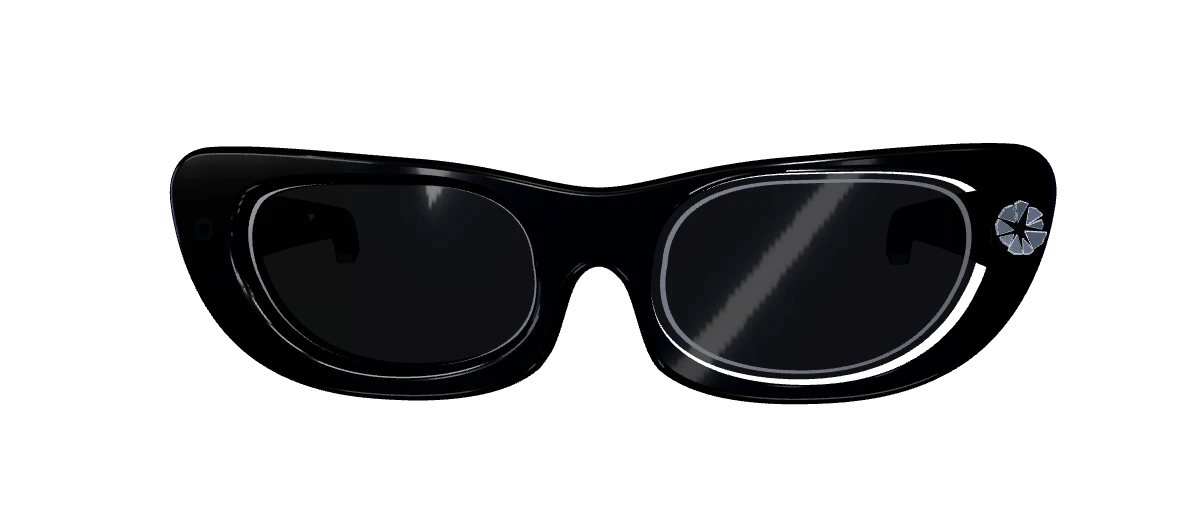
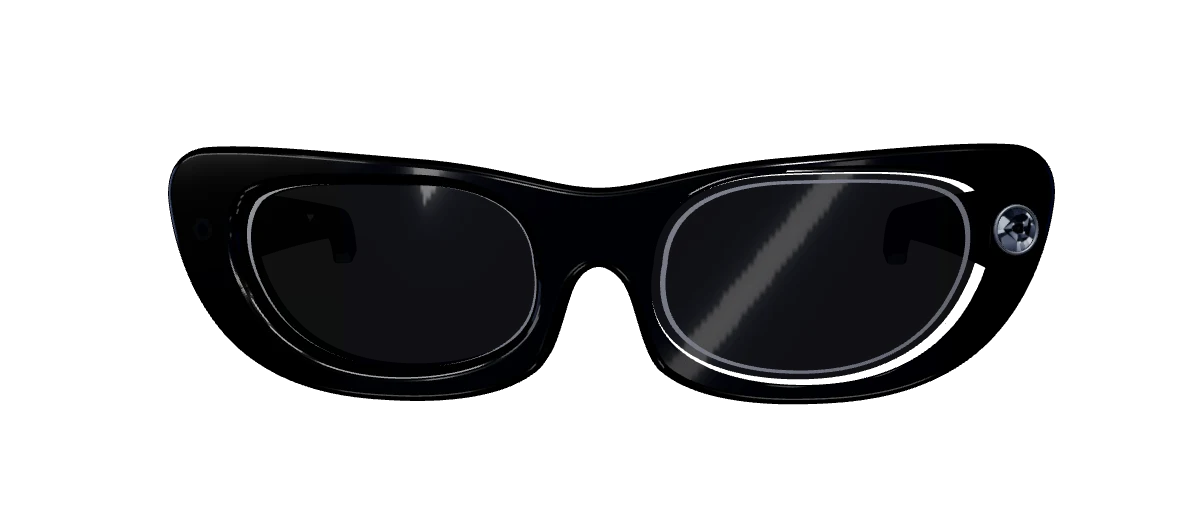
Damaged light: painted smashed-glass cover; add Business Insider source
The damaged-light text now says the camera is permanently disabled, per
Business Insider (Sept. 2, 2026).

diff --git a/src/three/Glasses3D.jsx b/src/three/Glasses3D.jsx
@@ -161,35 +161,129 @@ function OnFront({ x, y, lift = 0.004, children, groupRef }) {
   )
 }
 
-// Smashed capture-light cover: wedge-shaped glass shards around a hole,
-// each pushed in and twisted so they catch the light at different angles
-function makeShards() {
-  let seed = 7
+// Smashed capture-light cover, painted as a detailed texture: a punched-in
+// hole, broken glass cells with their own reflections, cut-glass edges,
+// hairline fractures and a few glints. Mapped onto a glossy disc.
+function makeSmashTexture() {
+  const S = 512, C = S / 2, R = S * 0.48
+  const IX = C + 26, IY = C - 20 // impact point, off-center
+  let seed = 11
   const rnd = () => ((seed = (seed * 16807) % 2147483647) / 2147483647)
-  const n = 9
-  const out = []
-  let a = 0
-  for (let i = 0; i < n; i++) {
-    const span = ((Math.PI * 2) / n) * (0.7 + rnd() * 0.6)
-    const rIn = 0.008 + rnd() * 0.012
-    const rOut = 0.044 + rnd() * 0.012
-    const half = span / 2 - (0.02 + rnd() * 0.07) // uneven gaps between shards
-    const shape = new THREE.Shape()
-    shape.moveTo(rIn, (rnd() - 0.5) * 0.006)
-    shape.lineTo(Math.cos(-half) * rOut, Math.sin(-half) * rOut)
-    shape.lineTo(rOut * (1.02 + rnd() * 0.06), (rnd() - 0.5) * 0.01)
-    shape.lineTo(Math.cos(half) * rOut, Math.sin(half) * rOut)
-    shape.closePath()
-    const geo = new THREE.ExtrudeGeometry(shape, { depth: 0.003, bevelEnabled: false })
-    out.push({ geo, edges: new THREE.EdgesGeometry(geo), ang: a + span / 2, rOut, tilt: -(0.12 + rnd() * 0.3), twist: (rnd() - 0.5) * 1.4 })
-    a += span
+  const cv = document.createElement('canvas')
+  cv.width = cv.height = S
+  const g = cv.getContext('2d')
+  const P = (a, r) => [IX + Math.cos(a) * r, IY + Math.sin(a) * r]
+
+  // rays from the impact point, and the fracture rings they cross
+  const n = 10
+  const rays = []
+  for (let i = 0; i < n; i++) rays.push((i / n) * Math.PI * 2 + (rnd() - 0.5) * 0.5)
+  const hole = rays.map(() => R * (0.24 + rnd() * 0.16))
+  const mid = rays.map(() => R * (0.52 + rnd() * 0.3))
+  const jag = (p, q, amt) => {
+    const m = [(p[0] + q[0]) / 2 + (rnd() - 0.5) * amt, (p[1] + q[1]) / 2 + (rnd() - 0.5) * amt]
+    return [p, m, q]
   }
-  return out
+
+  // base: dark tinted glass
+  g.beginPath(); g.arc(C, C, R, 0, Math.PI * 2)
+  g.fillStyle = '#0b1018'; g.fill()
+
+  const cells = []
+  for (let i = 0; i < n; i++) {
+    const j = (i + 1) % n
+    const a0 = rays[i], a1 = rays[j] + (j === 0 ? Math.PI * 2 : 0)
+    // inner ring cell (some are knocked out entirely)
+    if (rnd() > 0.4) {
+      cells.push({ pts: [...jag(P(a0, hole[i]), P(a0, mid[i]), 14), ...jag(P(a1, mid[j]), P(a1, hole[j]), 14).slice(1)], depth: 1 })
+    }
+    // outer cell, sometimes split by an extra short crack
+    const am = (a0 + a1) / 2
+    if (rnd() > 0.5) {
+      const rm = (mid[i] + mid[j]) / 2
+      cells.push({ pts: [P(a0, mid[i]), P(a0, R * 1.3), P(am, R * 1.3), P(am, rm)], depth: 0 })
+      cells.push({ pts: [P(am, rm), P(am, R * 1.3), P(a1, R * 1.3), P(a1, mid[j])], depth: 0 })
+    } else {
+      cells.push({ pts: [...jag(P(a0, mid[i]), P(a0, R * 1.3), 10), P(am, R * 1.3), ...jag(P(a1, R * 1.3), P(a1, mid[j]), 10).slice(1)], depth: 0 })
+    }
+  }
+
+  const poly = (pts) => { g.beginPath(); g.moveTo(...pts[0]); for (const p of pts.slice(1)) g.lineTo(...p); g.closePath() }
+
+  for (const c of cells) {
+    // each piece sits at its own angle, so it reflects a different brightness
+    const lit = rnd() ** 1.6 * (c.depth ? 0.7 : 1)
+    const ang = rnd() * Math.PI * 2
+    const [x0, y0] = c.pts[0]
+    const gr = g.createLinearGradient(x0, y0, x0 + Math.cos(ang) * 160, y0 + Math.sin(ang) * 160)
+    const hi = Math.round(40 + lit * 190), lo = Math.round(14 + lit * 60)
+    gr.addColorStop(0, `rgba(${hi - 12},${hi - 4},${hi + 14},0.95)`)
+    gr.addColorStop(1, `rgba(${lo},${lo + 6},${lo + 18},0.95)`)
+    poly(c.pts); g.fillStyle = gr; g.fill()
+    // cut-glass edge: dark seam, then a thin bright bevel just inside it
+    g.lineJoin = 'round'
+    poly(c.pts); g.strokeStyle = 'rgba(0,0,0,0.85)'; g.lineWidth = 5; g.stroke()
+    g.save(); g.translate(-1.2, -1.2)
+    poly(c.pts); g.strokeStyle = `rgba(225,236,255,${0.35 + lit * 0.6})`; g.lineWidth = 1.6; g.stroke()
+    g.restore()
+  }
+
+  // the punched-in hole, with a jagged lip
+  const holePts = []
+  rays.forEach((a, i) => { holePts.push(P(a, hole[i])); holePts.push(P(a + 0.24, hole[i] * (0.75 + rnd() * 0.2))) })
+  poly(holePts); g.fillStyle = '#000'; g.fill()
+  g.save(); g.translate(1.5, 1.5); poly(holePts); g.strokeStyle = 'rgba(200,215,240,0.55)'; g.lineWidth = 2; g.stroke(); g.restore()
+  // broken LED chip down inside the hole
+  g.save(); g.translate(IX + 4, IY + 6); g.rotate(0.5)
+  g.fillStyle = '#20232a'; g.fillRect(-14, -14, 28, 28)
+  g.fillStyle = '#3a3e47'; g.fillRect(-14, -14, 28, 4)
+  g.restore()
+
+  // hairline fractures running through the pieces
+  g.lineCap = 'round'
+  for (let k = 0; k < 26; k++) {
+    let a = rnd() * Math.PI * 2, r = R * (0.3 + rnd() * 0.6)
+    let [x, y] = P(a, r)
+    g.beginPath(); g.moveTo(x, y)
+    for (let s = 0; s < 3; s++) { a += (rnd() - 0.5) * 0.6; r += 10 + rnd() * 22; [x, y] = P(a, Math.min(r, R * 1.3)); g.lineTo(x, y) }
+    g.strokeStyle = `rgba(220,232,255,${0.15 + rnd() * 0.3})`; g.lineWidth = 0.8; g.stroke()
+  }
+
+  // a few sharp glints where light catches a broken edge
+  for (let k = 0; k < 6; k++) {
+    const c = cells[Math.floor(rnd() * cells.length)].pts[0]
+    const gl = g.createRadialGradient(c[0], c[1], 0, c[0], c[1], 16)
+    gl.addColorStop(0, 'rgba(255,255,255,0.95)'); gl.addColorStop(1, 'rgba(255,255,255,0)')
+    g.fillStyle = gl; g.fillRect(c[0] - 16, c[1] - 16, 32, 32)
+  }
+
+  // keep everything inside the round cover
+  g.globalCompositeOperation = 'destination-in'
+  g.fillStyle = '#000'
+  g.beginPath(); g.arc(C, C, R, 0, Math.PI * 2); g.fill()
+
+  const tex = new THREE.CanvasTexture(cv)
+  tex.colorSpace = THREE.SRGBColorSpace
+  tex.anisotropy = 4
+  return tex
 }
-const shards = makeShards()
-const shardMat = (
-  <meshPhysicalMaterial color="#a9bbd6" metalness={0.35} roughness={0.02} clearcoat={1} clearcoatRoughness={0} transparent opacity={0.62} envMapIntensity={5} side={THREE.DoubleSide} />
-)
+
+function SmashedCover() {
+  const tex = useMemo(makeSmashTexture, [])
+  return (
+    <group position={[0, 0, 0.009]}>
+      {/* metal bezel the glass sat in */}
+      <mesh>
+        <torusGeometry args={[0.078, 0.007, 12, 48]} />
+        <meshStandardMaterial color="#9da3ad" metalness={1} roughness={0.25} />
+      </mesh>
+      <mesh>
+        <circleGeometry args={[0.078, 48]} />
+        <meshPhysicalMaterial map={tex} emissiveMap={tex} emissive="#ffffff" emissiveIntensity={0.55} transparent roughness={0.08} metalness={0.2} clearcoat={1} clearcoatRoughness={0} envMapIntensity={1.4} />
+      </mesh>
+    </group>
+  )
+}
 
 export default function Glasses3D({ state = 'recording', ledRef, groupRef, ...props }) {
   const recording = state === 'recording'
@@ -283,28 +377,8 @@ export default function Glasses3D({ state = 'recording', ledRef, groupRef, ...pr
         <sprite ref={glow} scale={[0.2, 0.2, 1]} position={[0, 0, 0.01]}>
           <spriteMaterial map={glowTex} transparent depthWrite={false} blending={THREE.AdditiveBlending} toneMapped={false} />
         </sprite>
-        {/* damaged light: the glass cover smashed inward into tilted shards */}
-        {state === 'damaged' && (
-          <group position={[0, 0, 0.008]} scale={1.65}>
-            <mesh rotation={[Math.PI / 2, 0, 0]} position={[0, 0, -0.004]}>
-              <cylinderGeometry args={[0.052, 0.046, 0.006, 9]} />
-              <meshStandardMaterial color="#010102" roughness={1} />
-            </mesh>
-            {shards.map((sh, i) => (
-              <group key={i} rotation={[0, 0, sh.ang]}>
-                <group position={[sh.rOut, 0, 0.012]} rotation={[sh.twist, sh.tilt, 0]}>
-                  <group position={[-sh.rOut, 0, 0]}>
-                    <mesh geometry={sh.geo}>{shardMat}</mesh>
-                    {/* bright broken edges, like light catching cut glass */}
-                    <lineSegments geometry={sh.edges}>
-                      <lineBasicMaterial color="#eef4ff" transparent opacity={0.85} toneMapped={false} />
-                    </lineSegments>
-                  </group>
-                </group>
-              </group>
-            ))}
-          </group>
-        )}
+        {/* damaged light: smashed-in glass cover over the LED */}
+        {state === 'damaged' && <SmashedCover />}
         {state === 'covered' && (
           <mesh position={[0, 0, 0.02]} rotation={[0, 0, -0.25]}>
             <boxGeometry args={[0.13, 0.09, 0.025]} />

diff --git a/src/data/content.js b/src/data/content.js
@@ -89,7 +89,7 @@ export const ledStates = {
   recording: { tag: 'CAPTURE LIGHT ON', tone: 'text-white', text: 'The white light is on: a photo, video, or livestream is being captured right now.' },
   covered: { tag: 'LIGHT COVERED', tone: 'text-amber-400', text: 'The light is covered, so the glasses block capture until it is uncovered.' },
   // Meta's mandatory update, July 2026 (follow-up for mid-recording, August 2026)
-  damaged: { tag: 'LIGHT DAMAGED', tone: 'text-red-400', text: "A recent software update shuts the camera off if the light is damaged, drilled out or removed. The glasses can't take photos or video until they're repaired." },
+  damaged: { tag: 'LIGHT DAMAGED', tone: 'text-red-400', text: "A recent software update permanently disables the camera if the light is damaged, drilled out or removed, so the glasses can no longer take photos or video." },
 }
 
 export const alsoTracked = [
@@ -167,6 +167,7 @@ export const sources = [
   'Sammy Gecsoyler, “‘I’ve Definitely Lost Followers’: Influencers Face Backlash Over Meta ‘Pervert Glasses’ Content,” The Guardian, Aug. 9, 2026.',
   'Matt Growcoot, “UK Venues Ban Meta Smart Glasses En Masse,” PetaPixel, Aug. 10, 2026.',
   'Meta, “Company Info” and “Meta AI Glasses: Ray-Ban Meta & Oakley Meta,” Meta.com, 2026.',
+  'Katie Notopoulos and Ben Shimkus, “Meta Bricks Cameras on Thousands of AI Glasses Over Tampering,” Business Insider, Sept. 2, 2026.',
   'K. Shah, “Who’s Ready for Smart Glasses — and How Can Brands Reach Them?” YouGov, June 30, 2025.',
   'Sophie Tanno and Lisa Eadicicco, “‘Turn the Cameras Off’: London’s Growing Privacy Pushback Against Smart Glasses,” CNN, Sept. 22, 2026.',
 ]
